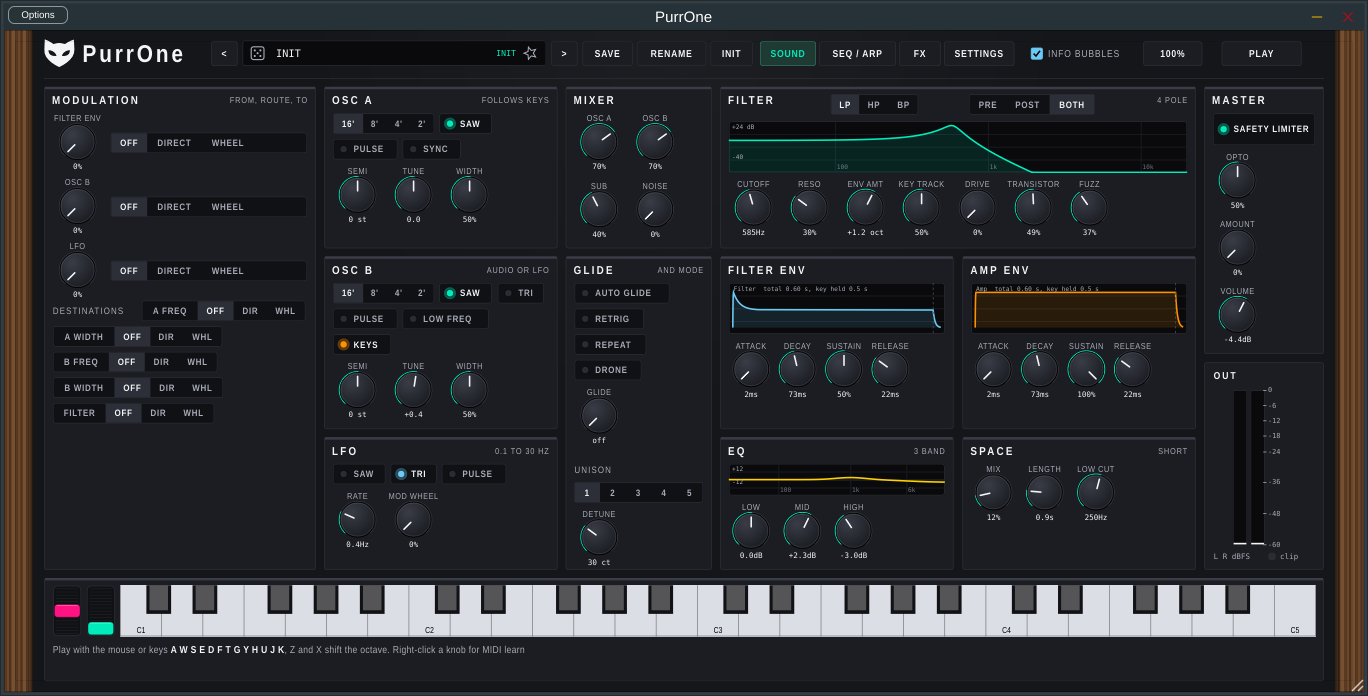
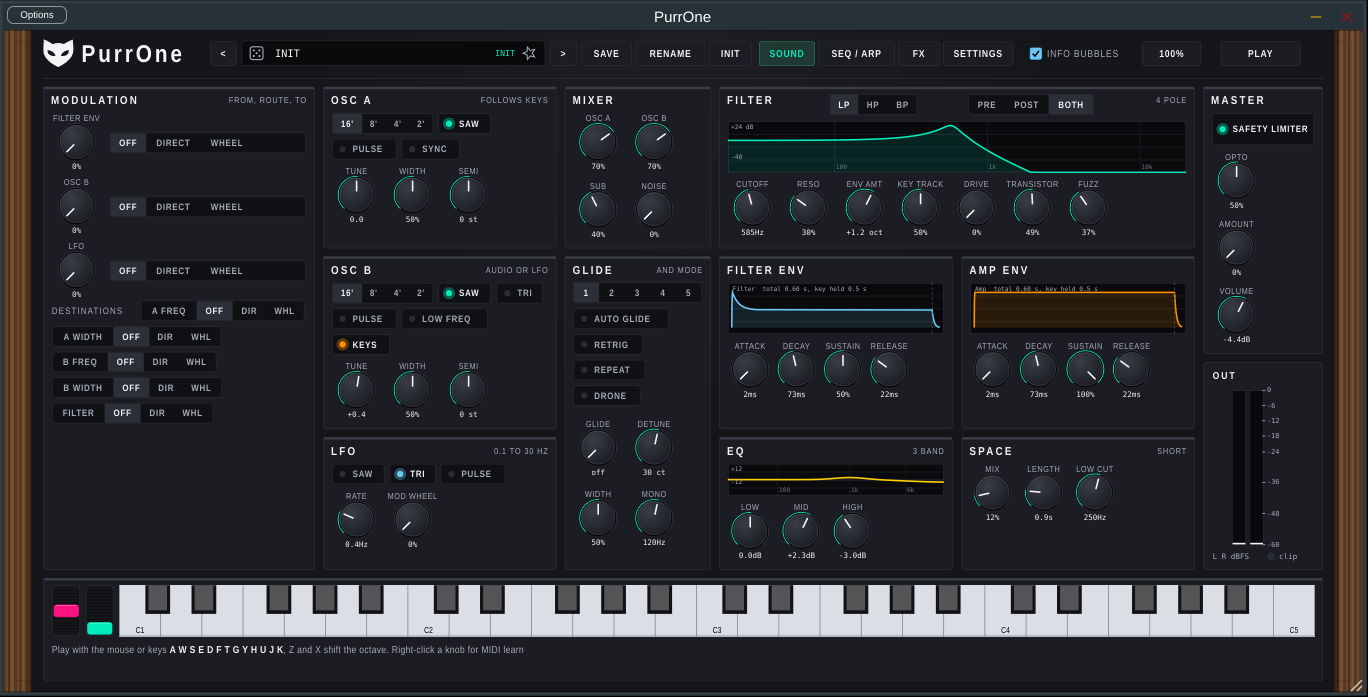
Add website page, refresh screenshot, link README, page and mockup both ways
Claude-Session: https://claude.ai/code/session_019TnJtziw9TzxJpcD67FRDR

diff --git a/docs/index.html b/docs/index.html
@@ -1,0 +1,36 @@
+<!doctype html>
+<html lang="en"><head><meta charset="utf-8"><meta name="viewport" content="width=device-width,initial-scale=1">
+<title>PurrOne</title>
+<meta name="description" content="PurrOne, a free open source mono synth in the style of the Pro-One, as VST3 and standalone.">
+<style>
+:root { --bg:#0e0f13; --panel:#171920; --line:#2a2d38; --fg:#e8e9ee; --dim:#9a9eab; --pink:#ff4fa3; --teal:#2de2c0; color-scheme: dark; }
+* { box-sizing: border-box; }
+body { margin:0; background:var(--bg); color:var(--fg); font:16px/1.55 system-ui,-apple-system,"Segoe UI",sans-serif; padding-block:28px 48px; padding-left:max(16px,env(safe-area-inset-left,0px)); padding-right:max(16px,env(safe-area-inset-right,0px)); }
+main { max-width:1000px; margin:0 auto; display:grid; gap:22px; }
+a { color:var(--pink); text-decoration:none; } a:hover, a:focus-visible { text-decoration:underline; }
+h1 { margin:0; font-size:clamp(28px,5vw,40px); letter-spacing:.02em; }
+.sub { color:var(--dim); margin:4px 0 0; max-width:62ch; }
+.shot { width:100%; height:auto; border-radius:6px; border:1px solid var(--line); display:block; }
+.cards { display:grid; grid-template-columns:repeat(auto-fit,minmax(220px,1fr)); gap:12px; }
+.card { background:var(--panel); border:1px solid var(--line); border-radius:6px; padding:14px 16px; min-width:0; }
+.card h2 { margin:0 0 4px; font-size:13px; letter-spacing:.12em; text-transform:uppercase; color:var(--teal); }
+.card p { margin:0 0 8px; color:var(--dim); font-size:14px; }
+ul { margin:0; padding-left:20px; color:var(--dim); } li { margin:3px 0; }
+footer { color:var(--dim); font-size:14px; display:flex; flex-wrap:wrap; gap:6px 20px; }
+</style></head><body><main>
+<header><h1>PurrOne</h1><p class="sub">A free, open source mono synth in the style of the Pro-One, as VST3 and standalone. Part of the Studio 87 cat suite.</p></header>
+<a href="mockup/purrone-mockup.html"><img class="shot" src="screenshot.png" alt="PurrOne editor window" width="1368" height="697"></a>
+<section class="cards" aria-label="Links">
+  <div class="card"><h2>Try it in the browser</h2><p>The interactive mockup: play it with the mouse or keyboard, browse the sounds, turn the knobs.</p><a href="mockup/purrone-mockup.html">Open the mockup</a></div>
+  <div class="card"><h2>Download</h2><p>Latest release with the installer, manual and uninstaller in one zip.</p><a href="https://github.com/SpeakingColors/PurrOne/releases/latest">Get the latest release</a></div>
+  <div class="card"><h2>Manual</h2><p>Every control, the preset browser and the unison section explained.</p><a href="manual.txt">Read the manual</a></div>
+  <div class="card"><h2>Source</h2><p>Free and open source, no telemetry, no data collection.</p><a href="https://github.com/SpeakingColors/PurrOne">GitHub repository</a></div>
+</section>
+<div class="card"><h2>What is in it</h2><ul>
+  <li>431 factory sounds in banks A to D, plus four user banks (E to H)</li>
+  <li>Preset browser with bank selection, search, type filters, favourites and history</li>
+  <li>Unison with 1 to 5 voices, Detune, stereo Width and a Mono knob that keeps the low end centred</li>
+  <li>Built-in FX: crush, EQ, reverb, OTT, stereo and a limiter, with a live spectrum and scope</li>
+</ul></div>
+<footer><a href="https://studio87.music">Studio 87</a><a href="https://github.com/SpeakingColors">All plugins on GitHub</a><a href="https://ko-fi.com/studio87">Support on Ko-fi</a></footer>
+</main></body></html>

diff --git a/docs/mockup/purrone-mockup.html b/docs/mockup/purrone-mockup.html
@@ -266,6 +266,9 @@ button[aria-disabled="true"] { opacity: .4; }
   .presets { grid-template-columns: auto minmax(0, 1fr) auto auto auto; }
   .presets #save { display: none; }
 }
+.sitelinks { display: flex; flex-wrap: wrap; justify-content: center; gap: 6px 22px; padding: 14px 16px 22px; font: 13px/1.4 system-ui, sans-serif; }
+.sitelinks a { color: #ff4fa3; text-decoration: none; } .sitelinks a:hover, .sitelinks a:focus-visible { text-decoration: underline; }
+.sitelinks span { color: #8b8f9a; }
 @media (prefers-reduced-motion: reduce) { * { transition: none !important; } }
 </style>
 
@@ -337,6 +340,11 @@ button[aria-disabled="true"] { opacity: .4; }
 </div>
 <div class="tip" id="tip" hidden></div>
 
+<nav class="sitelinks" aria-label="PurrOne links"><span>PurrOne, a free open source mono synth</span>
+  <a href="https://speakingcolors.github.io/purrone/">Website and manual</a>
+  <a href="https://github.com/SpeakingColors/PurrOne/releases/latest">Download</a>
+  <a href="https://github.com/SpeakingColors/PurrOne">Source</a>
+  <a href="https://studio87.music">Studio 87</a></nav>
 <script>
 (function () {
   "use strict";

diff --git a/README.md b/README.md
@@ -8,6 +8,8 @@ Status: early development (test builds). The sound engine, effects, factory pres
 
 <p align="center"><img src="docs/screenshot.png" alt="PurrOne editor" width="900"><br><sub>The PurrOne editor (v0.6.0).</sub></p>
 
+<p align="center"><a href="https://speakingcolors.github.io/purrone/">Website</a> · <a href="https://speakingcolors.github.io/purrone/mockup/purrone-mockup.html">Try the interactive mockup</a> · <a href="docs/manual.txt">Manual</a> · <a href="https://github.com/SpeakingColors/PurrOne/releases/latest">Download</a> · <a href="https://studio87.music">Studio 87</a></p>
+
 ## What it is
 - Two oscillators with hard sync, plus a warm sub oscillator, noise and a mixer.
 - A 4 pole self-oscillating filter with low-pass, high-pass and band-pass modes, two envelopes, an LFO and a mod matrix with a mod wheel path.
